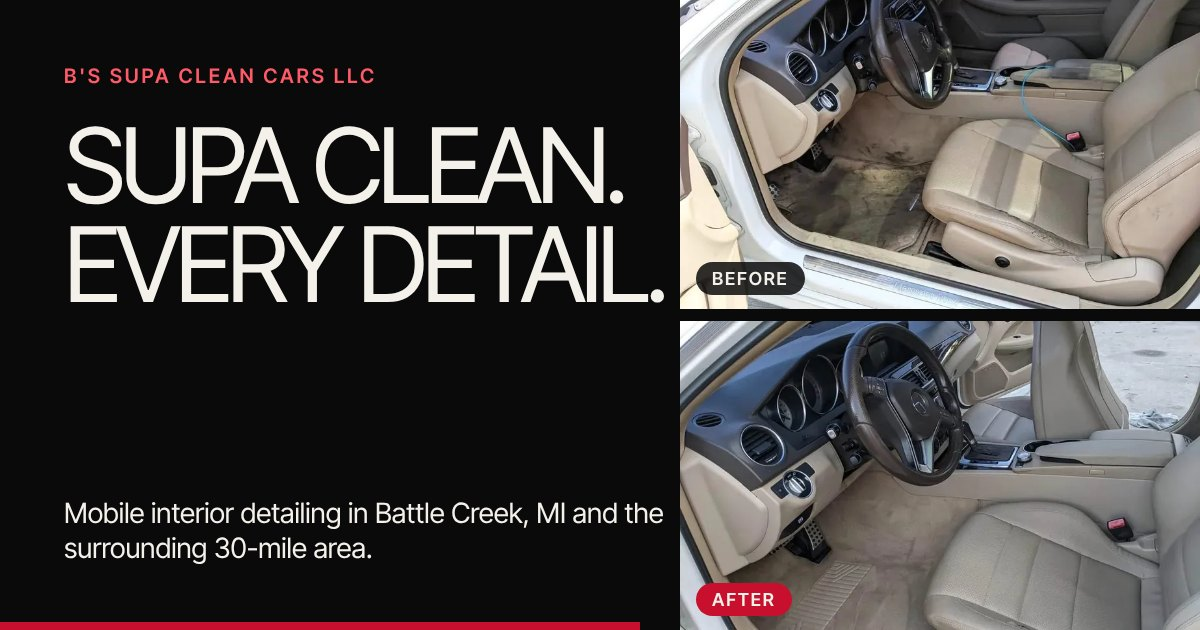
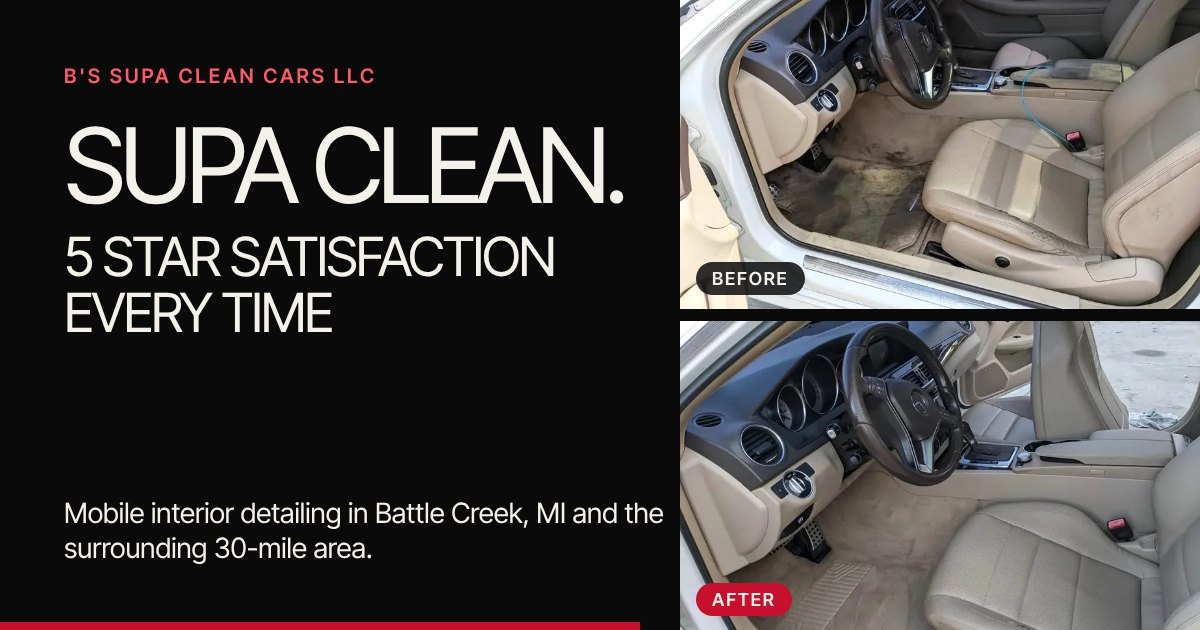
Update headline, business email, Google link and booking form
- Headline line 2: "5 STAR SATISFACTION EVERY TIME"
- Business email and Google Maps profile link added
- Form: vehicle type, leather/upholstery, condition 1-10 (10 = worst), convenient day
- Form delivery via FormSubmit to the business email; privacy text updated

Claude-Session: https://claude.ai/code/session_01GMi2wfcRsANqYTVK4nMXbo

Changed region(s): [[0.0308, 0.3317, 0.555, 0.5429]]

diff --git a/index.html b/index.html
@@ -9,11 +9,11 @@
   <meta property="og:type" content="website">
   <meta property="og:site_name" content="B's Supa Clean Cars LLC">
   <meta property="og:title" content="B's Supa Clean Cars LLC | Mobile Interior Detailing, Battle Creek MI">
-  <meta property="og:description" content="Supa clean. Every detail. Interior car and SUV detailing in Battle Creek and the surrounding 30-mile area.">
+  <meta property="og:description" content="Supa clean. 5 star satisfaction every time. Interior car and SUV detailing in Battle Creek and the surrounding 30-mile area.">
   <meta property="og:locale" content="en_US">
   <meta name="twitter:card" content="summary_large_image">
   <meta name="twitter:title" content="B's Supa Clean Cars LLC | Battle Creek, MI">
-  <meta name="twitter:description" content="Supa clean. Every detail. Interior car and SUV detailing in Battle Creek and the surrounding 30-mile area.">
+  <meta name="twitter:description" content="Supa clean. 5 star satisfaction every time. Interior car and SUV detailing in Battle Creek and the surrounding 30-mile area.">
   <link rel="icon" href="./favicon.svg" type="image/svg+xml">
   <!--SEO-->
   <!--JSONLD-->
@@ -45,9 +45,9 @@
 <!-- ===================== HERO (animated) ===================== -->
 <div id="track" class="hero-track">
   <section class="stage" id="stage" aria-label="B's Supa Clean Cars introduction">
-    <h1 aria-label="B's Supa Clean Cars LLC. Supa clean. Every detail.">
+    <h1 aria-label="B's Supa Clean Cars LLC. Supa clean. 5 star satisfaction every time.">
       <div class="hl" id="l1" aria-hidden="true"><span>SUPA CLEAN.</span></div>
-      <div class="hl" id="l2" aria-hidden="true"><span>EVERY DETAIL.</span></div>
+      <div class="hl" id="l2" aria-hidden="true"><span>5 STAR SATISFACTION EVERY TIME</span></div>
     </h1>
     <div id="cap">Mobile interior detailing · Battle Creek, MI</div>
     <div id="glow"></div>
@@ -82,7 +82,7 @@
 <section class="hero-static" aria-label="B's Supa Clean Cars introduction">
   <div class="wrap">
     <p class="eyebrow">B's Supa Clean Cars LLC · Battle Creek, Michigan</p>
-    <h1>SUPA CLEAN.<br>EVERY DETAIL.</h1>
+    <h1>SUPA CLEAN.<br><span class="h1-sub">5 STAR SATISFACTION EVERY TIME</span></h1>
     <p class="intro-lead">Mobile interior car &amp; SUV detailing, serving Battle Creek and the surrounding 30-mile area.</p>
     <div class="cta-row">
       <a class="btn btn-red" href="#book">Book now</a>
@@ -372,7 +372,50 @@
       </div>
       <div class="two">
         <div class="field">
-          <label for="f-vehicle">Vehicle (year, make, model)</label>
+          <label for="f-vtype">What kind of vehicle? *</label>
+          <select id="f-vtype" name="vehicle_type" required aria-describedby="e-vtype h-vtype">
+            <option value="">Choose…</option>
+            <option value="Car (sedan, coupe, hatchback)">Car (sedan, coupe, hatchback)</option>
+            <option value="SUV">SUV</option>
+            <option value="Truck">Truck</option>
+            <option value="Van / minivan">Van / minivan</option>
+            <option value="Other">Other</option>
+          </select>
+          <p class="fine hint" id="h-vtype">Trucks, vans and other vehicles aren't on the price list. Pick Free quote above and we'll quote it.</p>
+          <p class="err" id="e-vtype" role="alert"></p>
+        </div>
+        <div class="field">
+          <label for="f-interior">Is the interior leather or upholstery? *</label>
+          <select id="f-interior" name="interior" required aria-describedby="e-interior">
+            <option value="">Choose…</option>
+            <option value="Leather">Leather</option>
+            <option value="Upholstery (cloth)">Upholstery (cloth)</option>
+            <option value="Mix of both">Mix of both</option>
+            <option value="Not sure">Not sure</option>
+          </select>
+          <p class="err" id="e-interior" role="alert"></p>
+        </div>
+      </div>
+      <fieldset class="field chips" aria-describedby="h-cond e-cond">
+        <legend>Interior condition, 1 (best) to 10 (worst) *</legend>
+        <div class="chip-row">
+          <input class="chip" type="radio" name="condition" id="c1" value="1"><label class="chip" for="c1">1</label>
+          <input class="chip" type="radio" name="condition" id="c2" value="2"><label class="chip" for="c2">2</label>
+          <input class="chip" type="radio" name="condition" id="c3" value="3"><label class="chip" for="c3">3</label>
+          <input class="chip" type="radio" name="condition" id="c4" value="4"><label class="chip" for="c4">4</label>
+          <input class="chip" type="radio" name="condition" id="c5" value="5"><label class="chip" for="c5">5</label>
+          <input class="chip" type="radio" name="condition" id="c6" value="6"><label class="chip" for="c6">6</label>
+          <input class="chip" type="radio" name="condition" id="c7" value="7"><label class="chip" for="c7">7</label>
+          <input class="chip" type="radio" name="condition" id="c8" value="8"><label class="chip" for="c8">8</label>
+          <input class="chip" type="radio" name="condition" id="c9" value="9"><label class="chip" for="c9">9</label>
+          <input class="chip" type="radio" name="condition" id="c10" value="10"><label class="chip" for="c10">10</label>
+        </div>
+        <p class="fine hint" id="h-cond">10 means the worst condition. Not sure? Your best guess is fine.</p>
+        <p class="err" id="e-cond" role="alert"></p>
+      </fieldset>
+      <div class="two">
+        <div class="field">
+          <label for="f-vehicle">Year, make &amp; model</label>
           <input id="f-vehicle" name="vehicle" type="text" autocomplete="off">
         </div>
         <div class="field">
@@ -381,9 +424,16 @@
           <p class="err" id="e-where" role="alert"></p>
         </div>
       </div>
-      <div class="field">
-        <label for="f-when">Preferred days &amp; times</label>
-        <input id="f-when" name="preferred_times" type="text" placeholder="e.g. weekday evenings, Saturday morning" autocomplete="off">
+      <div class="two">
+        <div class="field">
+          <label for="f-date">Convenient day *</label>
+          <input id="f-date" name="preferred_date" type="date" required aria-describedby="e-date">
+          <p class="err" id="e-date" role="alert"></p>
+        </div>
+        <div class="field">
+          <label for="f-when">Preferred time of day</label>
+          <input id="f-when" name="preferred_times" type="text" placeholder="e.g. morning, after 5pm" autocomplete="off">
+        </div>
       </div>
       <div class="field">
         <label for="f-msg">Anything we should know?</label>

diff --git a/src/styles.css b/src/styles.css
@@ -4,7 +4,7 @@
   --wrap:1180px;--head:64px;
 }
 *{box-sizing:border-box;margin:0;padding:0}
-html{background:var(--bg);scroll-behavior:smooth}
+html{background:var(--bg);scroll-behavior:smooth;color-scheme:dark}
 body{font-family:'Inter Tight',system-ui,sans-serif;color:var(--ink);background:var(--bg);-webkit-font-smoothing:antialiased;overflow-x:hidden;line-height:1.5;font-size:17px}
 img{max-width:100%;display:block}
 a{color:var(--ink)}
@@ -59,7 +59,7 @@ h3{font-weight:600;letter-spacing:-.01em}
 .stage{position:sticky;top:0;height:100vh;height:100svh;overflow:hidden;background:var(--bg)}
 .hl{position:absolute;left:0;right:0;font-weight:400;font-size:clamp(40px,6.7vw,130px);line-height:1;letter-spacing:-.055em;white-space:nowrap;text-align:center;will-change:transform}
 #l1{top:calc(50% - .98em)}
-#l2{top:calc(50% + .03em)}
+#l2{font-size:calc(clamp(40px,6.7vw,130px)*.6);top:calc(50% + .06em)}
 #l1 span,#l2 span{display:inline-block}
 #l1 span{margin-right:15vw}
 #l2 span{margin-left:15vw}
@@ -85,6 +85,7 @@ h3{font-weight:600;letter-spacing:-.01em}
 /* static hero */
 .hero-static{display:none;padding:calc(var(--head) + 56px) 0 70px;border-bottom:1px solid var(--line)}
 .hero-static h1{font-weight:400;font-size:clamp(44px,9vw,120px);line-height:.98;letter-spacing:-.055em;margin:6px 0 18px}
+.hero-static .h1-sub{display:block;font-size:.42em;line-height:1.08;letter-spacing:-.04em;margin-top:.18em;max-width:16em}
 .static-grid{display:grid;grid-template-columns:repeat(3,1fr);gap:10px;margin-top:40px}
 .static-grid figure{position:relative;aspect-ratio:4/3;overflow:hidden;border-radius:10px;background:var(--card)}
 .static-grid img{width:100%;height:100%;object-fit:cover}
@@ -160,9 +161,9 @@ html.static-hero body.legal .hero-static{display:none}
 .contact-list{list-style:none;margin-top:22px;display:grid;gap:6px}
 .form{background:var(--card);border:1px solid var(--line);border-radius:16px;padding:clamp(20px,3vw,32px);display:grid;gap:16px}
 .field{display:grid;gap:6px}
-.two{display:grid;grid-template-columns:1fr 1fr;gap:16px}
+.two{display:grid;grid-template-columns:1fr 1fr;gap:16px;align-items:start}
 label{font-size:14px;font-weight:500}
-input[type=text],input[type=email],input[type=tel],select,textarea{width:100%;background:#0c0c0e;color:var(--ink);border:1px solid rgba(244,241,234,.28);border-radius:10px;padding:12px 14px;font:16px 'Inter Tight',sans-serif;min-height:46px}
+input[type=text],input[type=email],input[type=tel],input[type=date],select,textarea{width:100%;background:#0c0c0e;color:var(--ink);border:1px solid rgba(244,241,234,.28);border-radius:10px;padding:12px 14px;font:16px 'Inter Tight',sans-serif;min-height:46px}
 textarea{resize:vertical}
 input:focus-visible,select:focus-visible,textarea:focus-visible{outline:2px solid #fff;outline-offset:2px;border-color:#fff}
 .field.invalid input,.field.invalid select,.field.invalid textarea{border-color:var(--red-hi)}
@@ -172,6 +173,16 @@ input:focus-visible,select:focus-visible,textarea:focus-visible{outline:2px soli
 .check input{width:22px;height:22px;margin-top:2px;accent-color:var(--red)}
 .check .err{grid-column:1/-1}
 .hp{position:absolute;left:-9999px;width:1px;height:1px;overflow:hidden}
+.hint{margin:0}
+fieldset.field{border:0;padding:0;min-width:0}
+fieldset legend{font-size:14px;font-weight:500;margin-bottom:8px;padding:0}
+.chip-row{display:flex;flex-wrap:wrap;gap:8px}
+input.chip{position:absolute;opacity:0;width:1px;height:1px}
+label.chip{display:grid;place-items:center;width:44px;height:44px;border:1px solid rgba(244,241,234,.28);border-radius:10px;background:#0c0c0e;cursor:pointer;font-weight:600;transition:background .15s,border-color .15s}
+label.chip:hover{border-color:var(--ink)}
+input.chip:checked+label.chip{background:var(--red);border-color:var(--red);color:#fff}
+input.chip:focus-visible+label.chip{outline:2px solid #fff;outline-offset:2px}
+.field.invalid label.chip{border-color:var(--red-hi)}
 .status{padding:0;font-size:15.5px}
 .status:not(:empty){padding:14px 16px;border-radius:10px;border:1px solid var(--line)}
 .status.ok{border-color:#4fbf84;background:rgba(79,191,132,.1)}

diff --git a/src/main.js b/src/main.js
@@ -89,6 +89,8 @@ const root = document.documentElement;
   const form = $('#req-form'); if (!form) return;
   const status = $('#form-status'), submit = $('#f-submit'), label = $('.btn-label', submit);
   const t0 = Date.now();
+  const todayISO = () => { const d = new Date(); return `${d.getFullYear()}-${String(d.getMonth() + 1).padStart(2, '0')}-${String(d.getDate()).padStart(2, '0')}`; };
+  $('#f-date').min = todayISO();
   const labelOf = v => { const o = $(`#f-service option[value="${v}"]`); return o ? o.textContent : v; };
 
   // service buttons elsewhere on the page pre-select the service
@@ -119,9 +121,14 @@ const root = document.documentElement;
     if (email && !/^[^\s@]+@[^\s@]+\.[^\s@]{2,}$/.test(email)) errs['e-email'] = 'Enter a valid email address, like name@example.com.';
     if (phone && phone.replace(/\D/g, '').length < 7) errs['e-phone'] = 'Enter a phone number with at least 7 digits.';
     if (!v('service')) errs['e-service'] = 'Please choose a service, or pick Free quote.';
+    if (!v('vehicle_type')) errs['e-vtype'] = 'Please tell us what kind of vehicle it is.';
+    if (!v('interior')) errs['e-interior'] = 'Please choose leather, upholstery, a mix, or not sure.';
+    if (!v('condition')) errs['e-cond'] = 'Please pick a condition from 1 (best) to 10 (worst).';
     if (!v('location')) errs['e-where'] = 'Please enter your town or ZIP code.';
+    if (!v('preferred_date')) errs['e-date'] = 'Please pick a convenient day.';
+    else if (v('preferred_date') < todayISO()) errs['e-date'] = 'Please pick today or a future day.';
     if (!form.elements.consent.checked) errs['e-consent'] = 'Please agree so we can use your details to reply.';
-    ['e-name', 'e-email', 'e-phone', 'e-service', 'e-where', 'e-consent'].forEach(id => setErr(id, errs[id] || ''));
+    ['e-name', 'e-email', 'e-phone', 'e-service', 'e-vtype', 'e-interior', 'e-cond', 'e-where', 'e-date', 'e-consent'].forEach(id => setErr(id, errs[id] || ''));
     return errs;
   }
   form.addEventListener('input', e => { const f = fieldOf(e.target); const err = f && $('.err', f); if (err && err.textContent) validate(); });
@@ -143,8 +150,10 @@ const root = document.documentElement;
     const payload = {
       subject: `Appointment request: ${labelOf(v('service'))} (${v('name')})`,
       name: v('name'), email: v('email'), phone: v('phone'),
-      service: labelOf(v('service')), vehicle: v('vehicle'), location: v('location'),
-      preferred_times: v('preferred_times'), message: v('message'),
+      service: labelOf(v('service')), vehicle_type: v('vehicle_type'), interior: v('interior'),
+      condition_1_to_10: `${v('condition')} of 10 (10 = worst)`, vehicle: v('vehicle'), location: v('location'),
+      preferred_date: v('preferred_date'), preferred_times: v('preferred_times'), message: v('message'),
+      ...(/formsubmit\.co/.test(config.formEndpoint) && { _subject: `Appointment request: ${labelOf(v('service'))} (${v('name')})`, _template: 'table', _captcha: 'false' }),
       ...(config.formAccessKey && { access_key: config.formAccessKey }),
     };
     submit.disabled = true; submit.setAttribute('aria-busy', 'true');
@@ -153,7 +162,7 @@ const root = document.documentElement;
     try {
       const res = await fetch(config.formEndpoint, { method: 'POST', headers: { 'Content-Type': 'application/json', Accept: 'application/json' }, body: JSON.stringify(payload), signal: ctl.signal });
       let data = {}; try { data = await res.json(); } catch { /* non-JSON ok */ }
-      if (!res.ok || data.success === false || data.ok === false) throw new Error('bad response');
+      if (!res.ok || String(data.success) === 'false' || String(data.ok) === 'false') throw new Error('bad response');
       form.reset(); $$('.field', form).forEach(f => f.classList.remove('invalid'));
       status.className = 'status ok';
       status.textContent = 'Request sent. We will contact you to confirm a day and time. Your appointment is not booked until we confirm it, and a deposit payment alone does not reserve a time.';

diff --git a/privacy.html b/privacy.html
@@ -32,7 +32,7 @@
 
 <h2>What we collect</h2>
 <h3>When you send an appointment or quote request</h3>
-<p>The request form asks for your name, an email address and/or phone number, the service you want, your town or ZIP code, and optionally your vehicle, preferred days and times, and a message. This information is sent to us only when you press "Send appointment request".</p>
+<p>The request form asks for your name, an email address and/or phone number, the service you want, the kind of vehicle, whether the interior is leather or upholstery, its condition on a 1 to 10 scale, your town or ZIP code, a convenient day, and optionally the year, make and model, a preferred time of day, and a message. This information is sent to us only when you press "Send appointment request".</p>
 <h3>When you pay a deposit</h3>
 <p>The "Pay deposit" buttons open Stripe's hosted checkout page on stripe.com. You enter payment details on Stripe, not on this website. We never receive or store your full card number. Stripe shares payment records with us, such as the amount paid and the contact details you enter at checkout. Stripe's own privacy policy applies to what it collects.</p>
 <h3>Technical data</h3>
@@ -46,7 +46,7 @@
 <p>We do not sell your information and we do not use it for advertising.</p>
 
 <h2>Who receives it</h2>
-<p>Your request is delivered to us through a form-handling service that transmits the message. Stripe processes deposits. Our website host serves the pages. These providers handle data only to provide those services.</p>
+<p>Your request is sent from your browser to FormSubmit (formsubmit.co), a form-handling service that emails it to us at the business email address. Stripe processes deposits. Our website host serves the pages. These providers handle data only to provide those services.</p>
 
 <h2>Cookies and tracking</h2>
 <p>This website does not set cookies and does not use analytics, advertising pixels or other trackers. See <button class="linklike" type="button" data-cookie-settings>cookie settings</button>. If we add optional analytics or marketing tools in future, they will be blocked until you accept them, and you will be able to change your choice at any time.</p>
